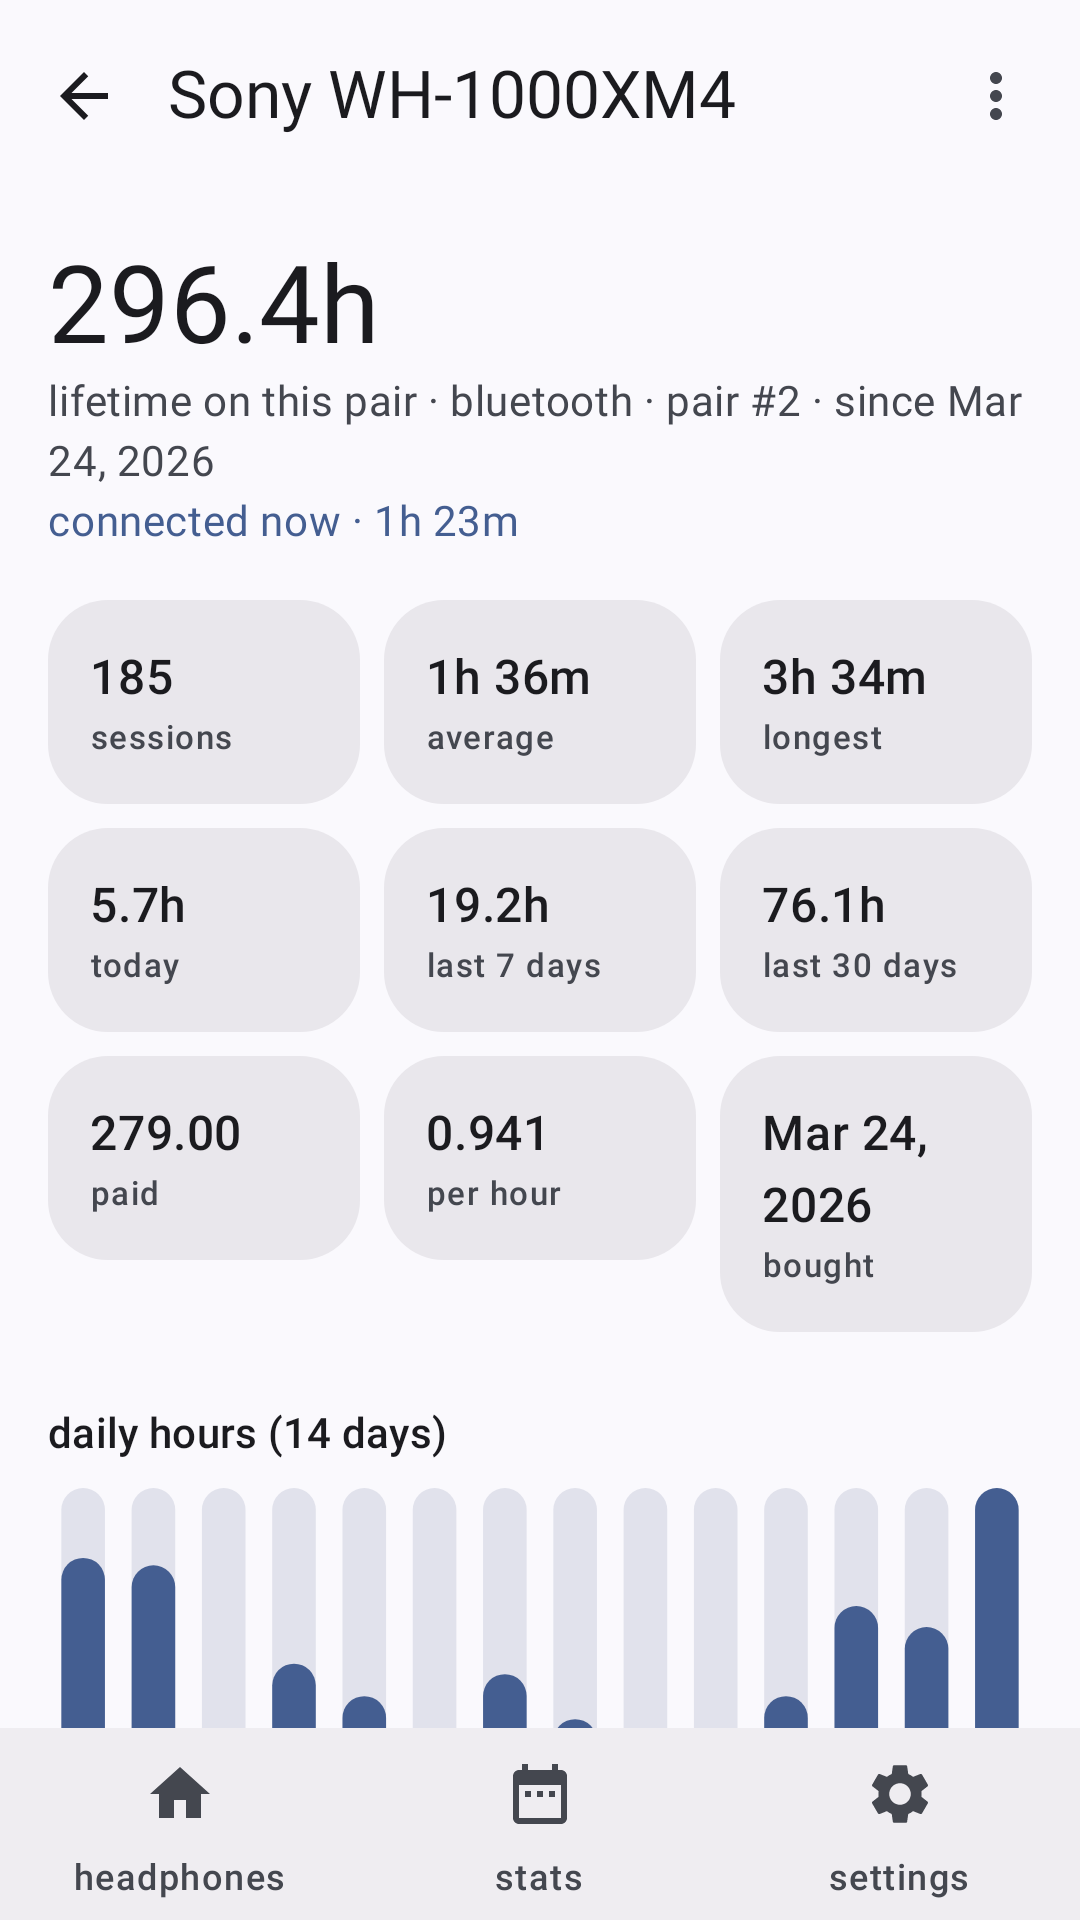
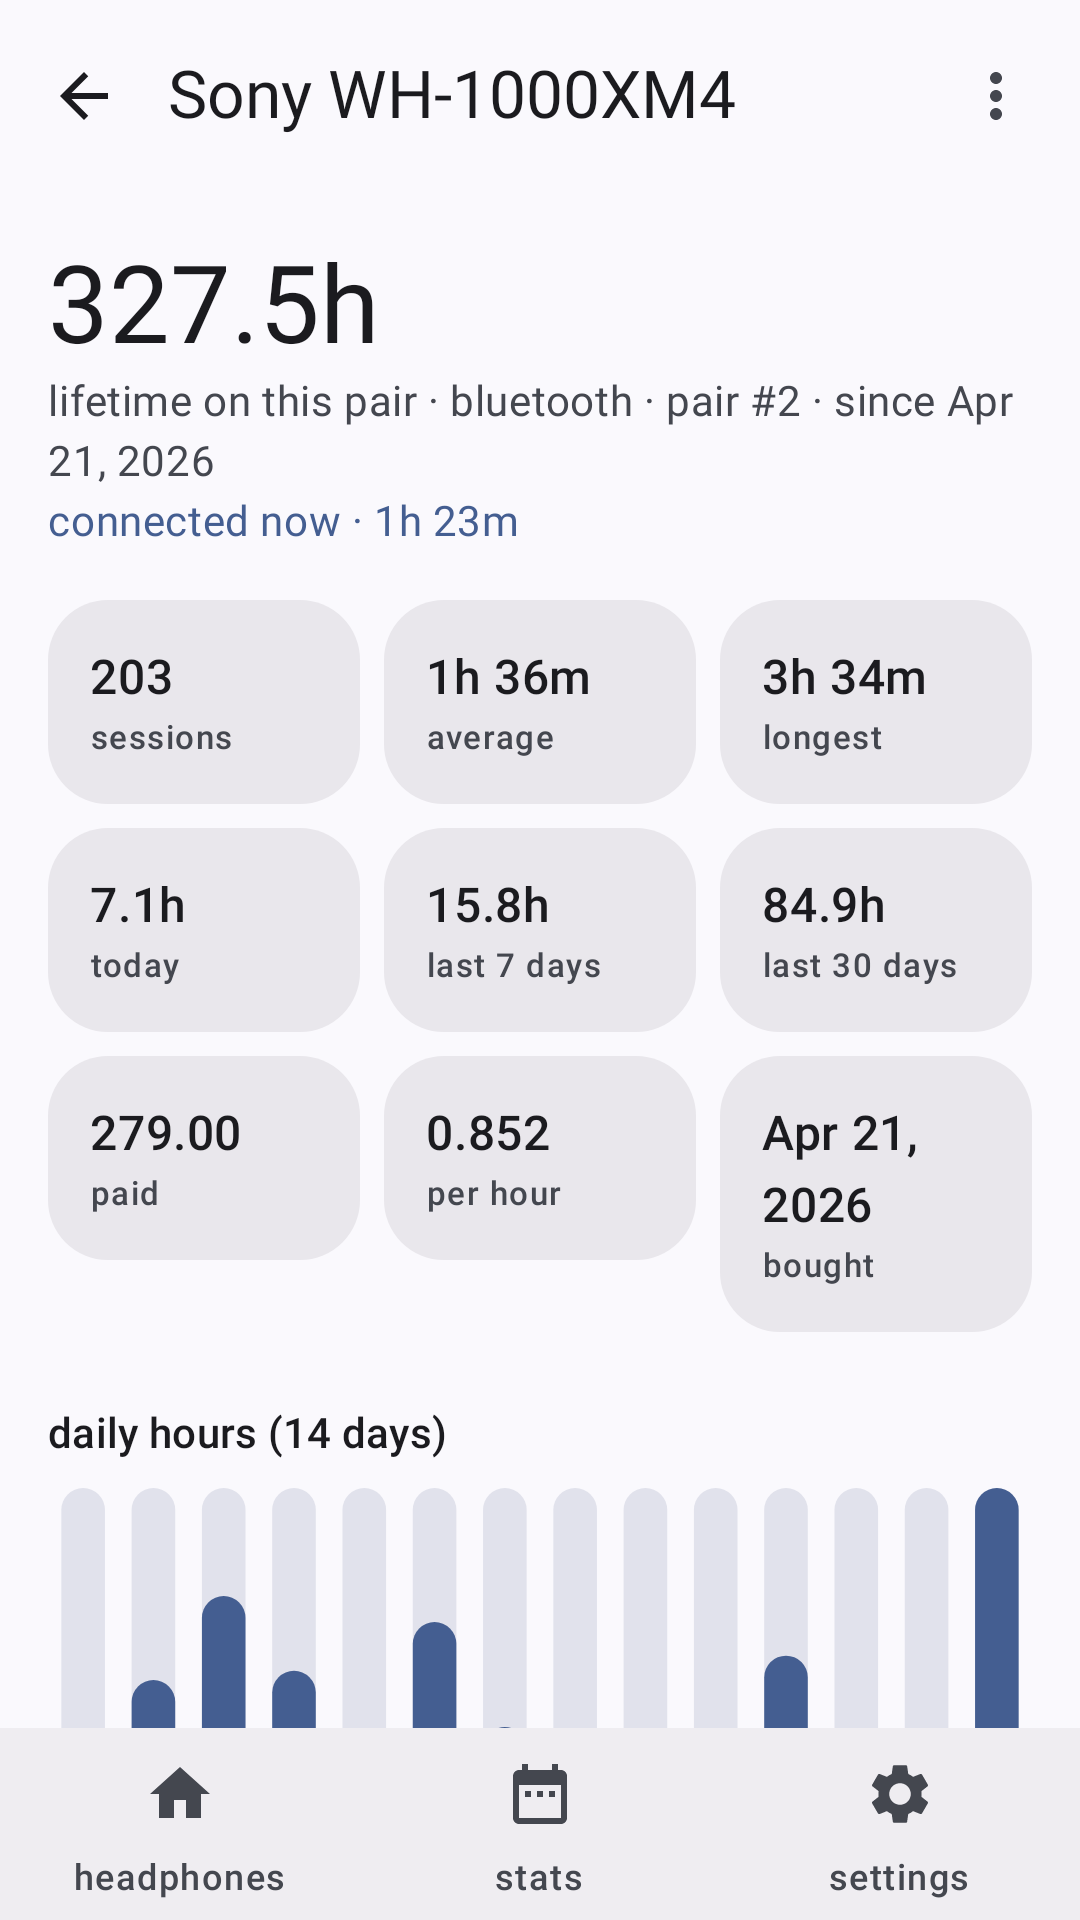
Give the listing a battery, so the charge-cycle screen has something to show
The demo database had no battery readings at all, so the pair page in the
screenshots stopped at the daily chart: 1.4.0's headline feature was invisible
in the listing that advertises it, and would have shipped that way.

The readings are written the way a headset reports them — a level at the
connect, then a step every five points, never a pair straddling a charge, so
Charge's one rule holds in the fixture as well as in the app. Two Bluetooth
pairs get them and the other two do not: a wired set has no battery, and
generation 1 is retired. The charge lasts less as the pair ages, interpolated
rather than modelled, because a chart whose bars are level says nothing about
battery health and that is the screen being sold.

06-charge-cycles.png is a frame of its own because the section sits below the
daily chart and the sessions, so the unscrolled pair shot cannot reach it. It
is scrolled to with performScrollToNode rather than waited for: the page is a
LazyColumn, so the text is not in the semantics tree until it is on screen, and
awaiting it times out instead of finding it.

The widget previews are re-recorded in the same pass, since nothing in CI does
it and they were stale.

Claude-Session: https://claude.ai/code/session_01W9C47B6PQ8fhUE4fity8iU

diff --git a/app/src/test/java/it/eldavo/ylih/listing/DemoData.kt b/app/src/test/java/it/eldavo/ylih/listing/DemoData.kt
@@ -1,5 +1,6 @@
 package it.eldavo.ylih.listing
 
+import it.eldavo.ylih.data.BatterySampleEntity
 import it.eldavo.ylih.data.DeviceEntity
 import it.eldavo.ylih.data.DeviceKind
 import it.eldavo.ylih.data.EndReason
@@ -30,11 +31,15 @@ object DemoData {
     /** Fixed seed: the same story every run, so re-recording is a no-op unless the UI changed. */
     private const val SEED = 20260725L
 
+    /** Percentage points between two battery readings. */
+    private const val STEP_POINTS = 5
+
     suspend fun seed(db: YlihDatabase, now: Long, zone: ZoneId = ZoneId.systemDefault()) {
         val random = Random(SEED)
         val devices = db.deviceDao()
         val pairs = db.pairDao()
         val sessions = db.sessionDao()
+        val samples = db.batterySampleDao()
 
         // The headline device: two generations of the same headphones, which is the one thing
         // this app does that a battery-stats screen cannot.
@@ -110,13 +115,26 @@ object DemoData {
 
         // Generation 1 wore out; generation 2 is the daily driver. Playback is only measured on
         // the two devices a detailed-tracking user would have had switched on for.
-        generate(sessions, retired, now, zone, random, from = 430, to = 139, perDay = 1.6, playback = false)
-        generate(sessions, current, now, zone, random, from = 138, to = 0, perDay = 1.9, playback = false)
-        generate(sessions, buds, now, zone, random, from = 84, to = 0, perDay = 1.2, playback = true)
-        generate(sessions, wiredPair, now, zone, random, from = 38, to = 0, perDay = 0.7, playback = true)
+        //
+        // Battery is reported by the two Bluetooth pairs and by neither of the others: a wired set
+        // has no battery to report, and generation 1 is retired, so its page is the frozen-totals
+        // one. The declining figures are the point — a pair whose charge still buys what it did
+        // when new says nothing about battery health, and that is the screen being advertised.
+        generate(sessions, samples, retired, now, zone, random, from = 430, to = 139, perDay = 1.6, playback = false)
+        generate(
+            sessions, samples, current, now, zone, random,
+            from = 138, to = 0, perDay = 1.9, playback = false,
+            battery = Battery(newHours = 30.0, wornHours = 21.0),
+        )
+        generate(
+            sessions, samples, buds, now, zone, random,
+            from = 84, to = 0, perDay = 1.2, playback = true,
+            battery = Battery(newHours = 6.5, wornHours = 5.0),
+        )
+        generate(sessions, samples, wiredPair, now, zone, random, from = 38, to = 0, perDay = 0.7, playback = true)
 
         // One live connection, so the lifetime figures tick and the "Connected" chip is shown.
-        sessions.insert(
+        val live = sessions.insert(
             SessionEntity(
                 pairId = current,
                 connectedAt = now - (83 * MINUTE),
@@ -125,7 +143,12 @@ object DemoData {
                 heartbeatAt = now,
             ),
         )
+        // And it is draining while the screenshot is taken, the way an open session on a phone is.
+        drain(samples, live, current, now - (83 * MINUTE), now, hoursPerCharge = 21.0, from = 68)
     }
+
+    /** How long a charge lasts, when the pair was new and by the end of the history generated. */
+    private data class Battery(val newHours: Double, val wornHours: Double)
 
     /**
      * Lays down listening sessions between two day offsets. [perDay] is an average rather than a
@@ -134,6 +157,7 @@ object DemoData {
      */
     private suspend fun generate(
         sessions: it.eldavo.ylih.data.SessionDao,
+        samples: it.eldavo.ylih.data.BatterySampleDao,
         pairId: Long,
         now: Long,
         zone: ZoneId,
@@ -142,8 +166,12 @@ object DemoData {
         to: Int,
         perDay: Double,
         playback: Boolean,
+        battery: Battery? = null,
     ) {
         val today = ZonedDateTime.ofInstant(java.time.Instant.ofEpochMilli(now), zone).toLocalDate()
+        // Carried across sessions, because a battery is: what a session starts at is what the last
+        // one left, unless the pair was charged in between.
+        var level = 100
         for (daysAgo in from downTo to) {
             val date = today.minusDays(daysAgo.toLong())
             // Weekends run longer, and roughly one day in six has no listening at all.
@@ -159,7 +187,7 @@ object DemoData {
                 val end = start + length
                 // Never write a session into the future; today is only partly over.
                 if (end >= now - 90 * MINUTE) return@repeat
-                sessions.insert(
+                val sessionId = sessions.insert(
                     SessionEntity(
                         pairId = pairId,
                         connectedAt = start,
@@ -171,8 +199,51 @@ object DemoData {
                         endReason = EndReason.DISCONNECTED,
                     ),
                 )
+                if (battery != null) {
+                    // The charge lasts less as the pair ages, which is the whole shape the cycle
+                    // chart exists to show. Interpolated over the range being generated rather
+                    // than modelled: a store screenshot has to be plausible, not simulated.
+                    val worn = (from - daysAgo).toDouble() / (from - to).coerceAtLeast(1)
+                    val hours = battery.newHours + (battery.wornHours - battery.newHours) * worn
+                    level = drain(samples, sessionId, pairId, start, end, hours, level)
+                    // Put on charge when it gets low, which is when a person does it. Never
+                    // mid-session, so no reading pair ever straddles a charge.
+                    if (level <= 8 + random.nextInt(22)) level = 100
+                }
                 cursor = end + (40 + random.nextInt(220)).toLong() * MINUTE
             }
         }
+    }
+
+    /**
+     * Writes one session's worth of battery readings and returns the level it ended on.
+     *
+     * Readings come in [STEP_POINTS] steps rather than per point, which is both what most headsets
+     * actually report and what keeps this to a few hundred rows a pair: these classes are seeded
+     * once per test in the ordinary unit-test run too, not only when recording. The first reading
+     * is at the connect, because that is when most headsets report — the case `BtBatteryReceiver`
+     * retries for.
+     */
+    private suspend fun drain(
+        samples: it.eldavo.ylih.data.BatterySampleDao,
+        sessionId: Long,
+        pairId: Long,
+        start: Long,
+        end: Long,
+        hoursPerCharge: Double,
+        from: Int,
+    ): Int {
+        val stepMs = (hoursPerCharge * HOUR * STEP_POINTS / 100).toLong().coerceAtLeast(MINUTE)
+        var level = from
+        var at = start
+        samples.insert(BatterySampleEntity(sessionId = sessionId, pairId = pairId, at = at, level = level))
+        while (at + stepMs <= end && level > STEP_POINTS) {
+            at += stepMs
+            level -= STEP_POINTS
+            samples.insert(
+                BatterySampleEntity(sessionId = sessionId, pairId = pairId, at = at, level = level),
+            )
+        }
+        return level
     }
 }

diff --git a/app/src/test/java/it/eldavo/ylih/listing/StoreScreenshots.kt b/app/src/test/java/it/eldavo/ylih/listing/StoreScreenshots.kt
@@ -4,10 +4,13 @@ import android.Manifest
 import android.app.Application
 import android.os.Build
 import androidx.compose.ui.test.junit4.v2.createComposeRule
+import androidx.compose.ui.test.hasScrollAction
+import androidx.compose.ui.test.hasText
 import androidx.compose.ui.test.onAllNodesWithText
 import androidx.compose.ui.test.onNodeWithText
 import androidx.compose.ui.test.onRoot
 import androidx.compose.ui.test.performClick
+import androidx.compose.ui.test.performScrollToNode
 import androidx.test.core.app.ApplicationProvider
 import com.github.takahirom.roborazzi.captureRoboImage
 import it.eldavo.ylih.R
@@ -124,6 +127,22 @@ abstract class StoreScreenshots(
         showApp()
         awaitAnchor()
         capture("05-devices-dark.png")
+    }
+
+    @Test
+    fun `06 charge cycles`() {
+        showApp()
+        awaitAnchor()
+        compose.onAllNodesWithText(ANCHOR)[0].performClick()
+        awaitText(string(R.string.pair_lifetime))
+        // The section is below the daily chart and the sessions, so the unscrolled pair shot
+        // cannot show it — and it is the one thing on that page a battery-stats screen has no
+        // answer for, so it gets a frame of its own.
+        // The page is a LazyColumn, so the section is not in the semantics tree at all until it is
+        // scrolled to — waiting for its text would time out rather than find it.
+        compose.onAllNodes(hasScrollAction())[0]
+            .performScrollToNode(hasText(string(R.string.pair_charge_cycles)))
+        capture("06-charge-cycles.png")
     }
 
     private fun showApp() {
